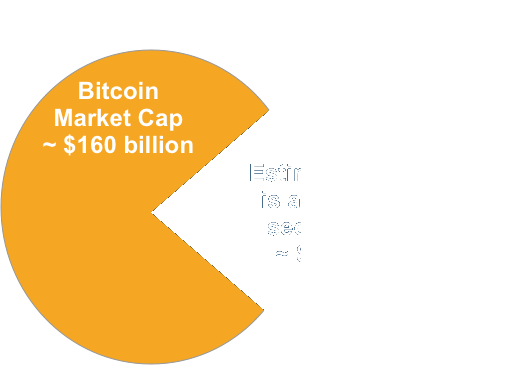
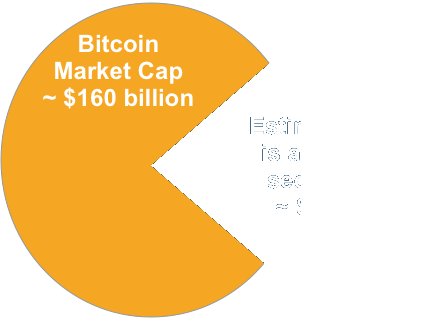
fix current addressable bitcoin slide

diff --git a/index.html b/index.html
@@ -92,14 +92,22 @@
 						<h3>Financial Projections</h3>
 						<img src="image/chart.png">
 					</section>
-					<section data-background="image/Bitcoin2.png" data-background-size="60%">
+					<section>
+						<h3>Current Addressable Bitcoin</h3>
+						<img src="image/Bitcoin2.png" alt="Estimate of Bitcoin available">
+						<p>For up to date market capitalization, click <a href="https://coinmarketcap.com/" target="_blank">here</a>.</p>
 					</section>
-					<section data-background="image/MarketShare.png" data-background-size="60%">
+					<section>
+						<h3>Market Share Considerations</h3>
+						<p class="explainertext">Grayscale Investment Trust reported $2.4bn of 6% of the addressable market despite 2% annual cost, tight investor restrictions and a six month lockup</p>
+						<br>
+						<p class="explainertext">BTC Bonds could capture 10% or $4bn without a change in current investor awareness or stance</p>
 					</section>
 					<section>
 						<h3>Revenue Opportunity</h3>
 						<p class="explainertext">The issuer will borrow BTC at negative 1% APY.</p>
 						<p class="explainertext">At $4bn bonds outstanding, that translates into $40m per annum in revenue.</p>
+						<br>
 						<p class="explainertext">Further growth in bonds outstanding depends on market acceptance, financial utility and premium to prices on Bitcoin exchanges.</p>
 					</section>
 					<section>

diff --git a/css/style.css b/css/style.css
@@ -36,3 +36,8 @@ img {
 .explainertext {
     text-align: left;
 }
+.reveal section img { 
+    background:none; 
+    border:none; 
+    box-shadow:none; 
+}
